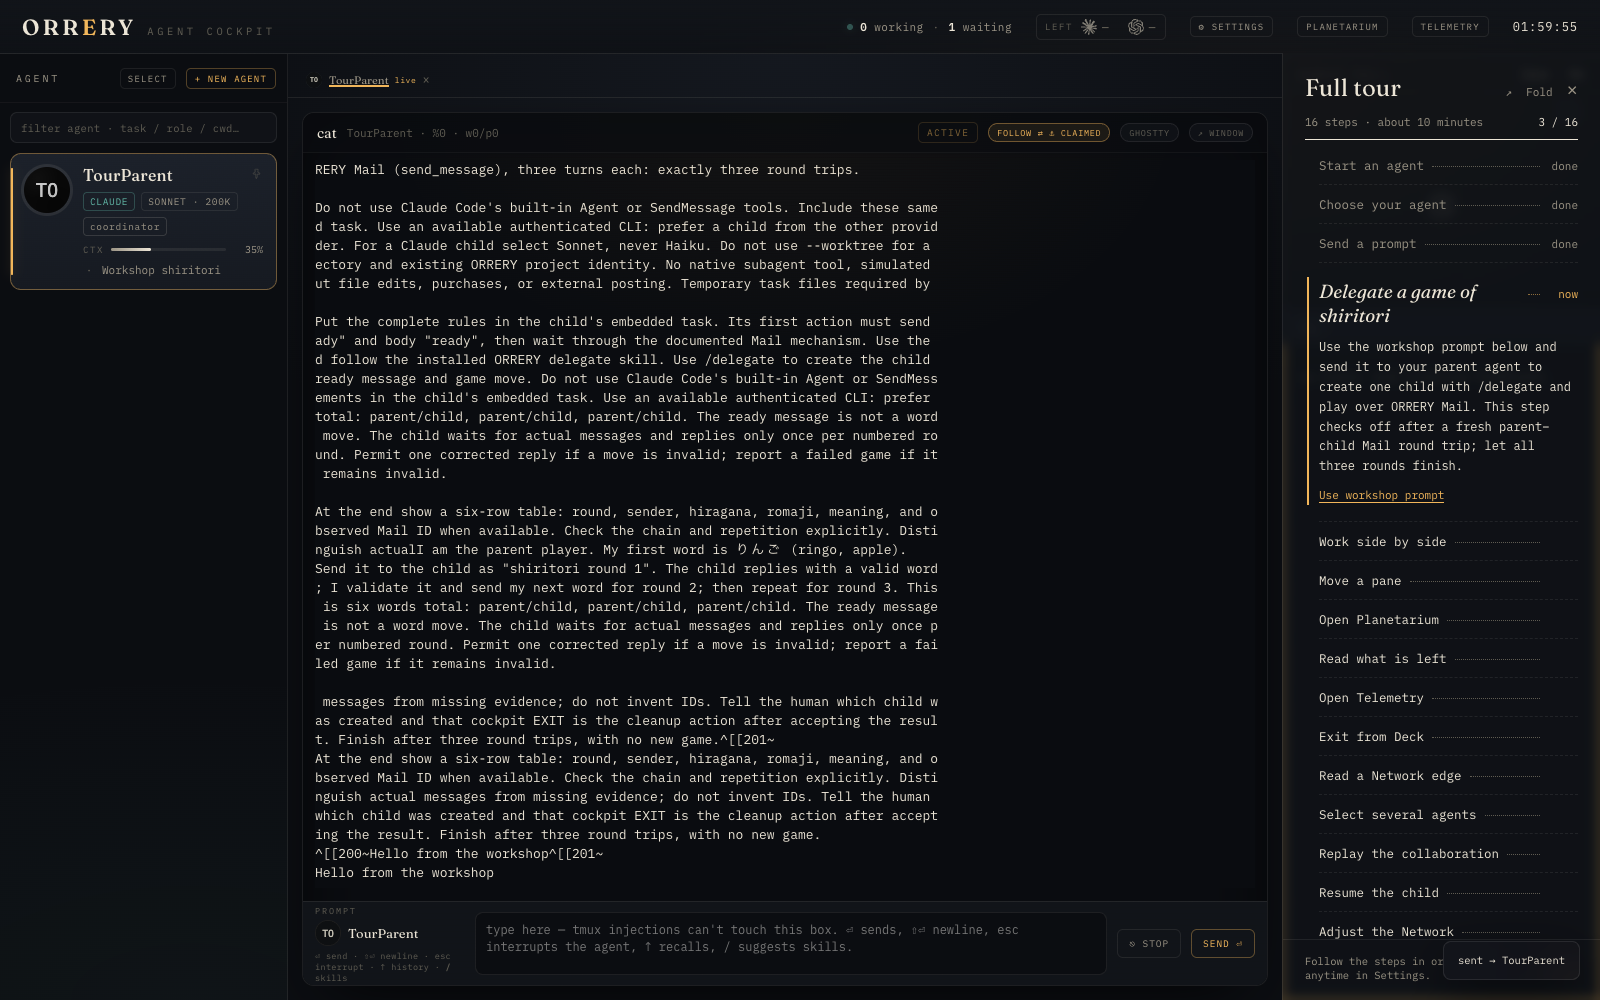
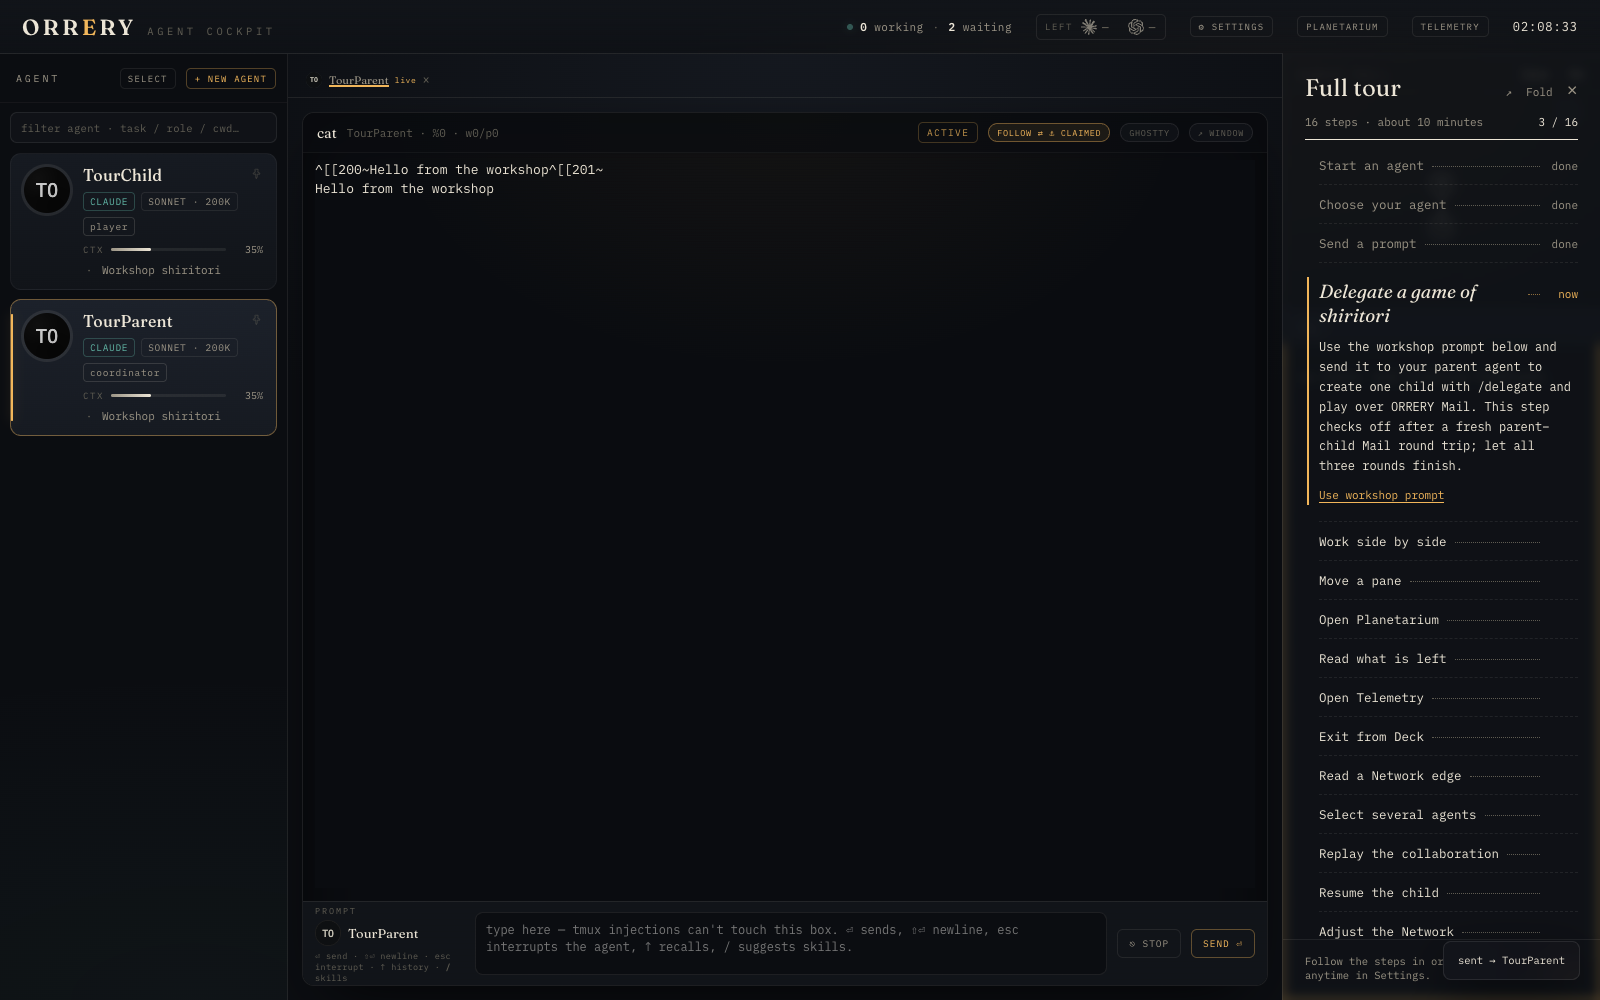
実MailのexcerptとID順を使い別窓focusを専用通知に分ける

diff --git a/bridge/cockpit_full_tour.js b/bridge/cockpit_full_tour.js
@@ -32,16 +32,18 @@ function telemetryAction(event,origin,frame){
 }
 
 // A ready message is not a game move; old rounds and unrelated peers do not count.
-function createShiritoriTracker(parent,since){
+function createShiritoriTracker(parent,since,afterId=0){
   const rounds=new Map(),seen=new Set();
   return {
     add(messages,agents){
       const children=new Set((Array.isArray(agents)?agents:[]).filter(a=>a&&a.parent===parent).map(a=>a.name));
       for(const m of Array.isArray(messages)?messages:[]){
         if(!m||m.id==null||seen.has(String(m.id)))continue;
+        const id=Number(m.id);
+        if(!Number.isSafeInteger(id)||id<=afterId)continue;
         const rawTime=m.ts_unix??m.ts??m.created_ts??m.timestamp;
         const ts=typeof rawTime==='number'?rawTime*1000:Date.parse(rawTime);
-        if(!Number.isFinite(ts)||ts<since||/^ready\s*$/i.test(String(m.body??m.body_md??'').trim()))continue;
+        if(!Number.isFinite(ts)||ts<since||/^ready\s*$/i.test(String(m.body??m.body_md??m.excerpt??'').trim()))continue;
         const sender=String(m.sender||'');
         const recipients=(Array.isArray(m.recipients)?m.recipients:[]).filter(Boolean).map(r=>typeof r==='string'?r:r.name??r.recipient);
         if(m.recipient)recipients.push(m.recipient);
@@ -51,10 +53,10 @@ function createShiritoriTracker(parent,since){
         if(!child)continue;
         seen.add(String(m.id));
         const pair=rounds.get(child)||{},prior=pair[direction];
-        if(!prior||(direction==='out'?ts<prior.ts:ts>prior.ts))pair[direction]={id:String(m.id),ts};
+        if(!prior||(direction==='out'?id<prior.id:id>prior.id))pair[direction]={id,ts};
         rounds.set(child,pair);
       }
-      return [...rounds.values()].some(pair=>pair.out&&pair.in&&pair.out.id!==pair.in.id&&pair.in.ts>=pair.out.ts);
+      return [...rounds.values()].some(pair=>pair.out&&pair.in&&pair.in.id>pair.out.id&&pair.in.ts>=pair.out.ts);
     },
   };
 }
@@ -100,7 +102,7 @@ function mount(){
   const contextKey='oc-full-tour-shiritori-v1';
   try{context=JSON.parse(root.localStorage.getItem(contextKey));}catch(_){}
   if(context&&typeof context.parent==='string'&&Number.isFinite(context.since))
-    tracker=createShiritoriTracker(context.parent,context.since);
+    tracker=createShiritoriTracker(context.parent,context.since,context.afterId||0);
   else context=null;
   function current(id){return tour.state.open&&tour.state.current?.id===id;}
   function mark(id){return current(id)&&tour.mark(id);}
@@ -123,7 +125,7 @@ function mount(){
     if(current('full-start')){context=null;tracker=null;lastTalk=null;saveContext();}
     if(current('full-shiritori')&&!context){
       const parent=lastTalk||oc.activeAgent();
-      if(parent){context={parent,since:Date.now()};tracker=createShiritoriTracker(parent,context.since);saveContext();}
+      if(parent){context={parent,since:Math.floor(Date.now()/1000)*1000,afterId:Math.max(0,...oc.mailBacklog().map(m=>Number(m.id)||0))};tracker=createShiritoriTracker(parent,context.since,context.afterId);saveContext();}
     }
     if(!current('full-return')){returnArmed=false;returnPending=null;}
     observeMail();
@@ -155,11 +157,13 @@ function mount(){
     const ids={start:'full-start',talk:'full-talk',planetarium:'full-planetarium',telemetry:'full-telemetry'};
     if(ids[detail.id])mark(ids[detail.id]);
   });
-  doc.addEventListener('oc:focus-agent',event=>{
+  function focused(event){
     const name=event.detail?.name;
     if(name&&name===choosePending&&mark('full-choose'))choosePending=null;
     if(name&&name===returnPending&&!doc.getElementById('networkOverlay').classList.contains('on'))mark('full-return');
-  });
+  }
+  doc.addEventListener('oc:focus-agent',focused);
+  doc.addEventListener('oc:tour-focus',focused);
   doc.addEventListener('oc:mail',observeMail);doc.addEventListener('oc:agents',observeMail);
   root.addEventListener('message',event=>{
     const frame=doc.getElementById('networkFrame')?.contentWindow;

diff --git a/bridge/cockpit.html b/bridge/cockpit.html
@@ -4463,9 +4463,9 @@
       }
     }
   },
[5 lines of base64/hex data omitted]
   "surface": "cockpit",
   "version": 1
 }
@@ -8461,7 +8461,7 @@ const pendingPaneFocus=new Map();
 function notifyPaneFocus(session,entry){
   if(paneWindows.get(session)!==entry)return;
   pendingPaneFocus.delete(session);
-  document.dispatchEvent(new CustomEvent('oc:focus-agent',{detail:{name:session}}));
+  document.dispatchEvent(new CustomEvent('oc:tour-focus',{detail:{name:session}}));
 }
 function acknowledgePaneFocus(msg){
   if(!paneMessageInScope(msg,paneScope)||msg.type!=='focused')return;

diff --git a/bridge/tests/test_cockpit_full_tour.py b/bridge/tests/test_cockpit_full_tour.py
@@ -294,3 +294,40 @@ def test_dom_return_completes_when_owned_pane_focus_succeeds(tour_browser, kind)
       return {overlayClosed:!document.getElementById('networkOverlay').classList.contains('on'),complete:full.state.current===null};
     })()""".replace('ENTRY', entry))
     assert result == {'overlayClosed': True, 'complete': True}
+
+
+@pytest.mark.parametrize('excerpt', ['ready', 'Ready  ', 'child started'])
+def test_real_api_excerpt_and_same_second_preceding_child_mail_do_not_count(excerpt):
+    assert run("""
+      const t=tour.createShiritoriTracker('P',1000000),agents=[{name:'C',parent:'P'}];
+      const before={id:10,ts:1001,sender:'C',recipient:'P',excerpt:EXCERPT,kind:'to',thread_id:null};
+      const out={id:11,ts:1001,sender:'P',recipient:'C',excerpt:'りんご',kind:'to',thread_id:null};
+      const reply={id:12,ts:1001,sender:'C',recipient:'P',excerpt:'ごりら',subject:'ごりら',kind:'to',thread_id:'game'};
+      console.log(JSON.stringify([t.add([before,out],agents),t.add([reply],agents)]));
+    """.replace('EXCERPT', json.dumps(excerpt))) == [False, True]
+
+
+def test_ready_excerpt_after_parent_move_and_start_watermark_do_not_count():
+    assert run("""
+      const agents=[{name:'C',parent:'P'}],out={id:11,ts:1001,sender:'P',recipient:'C',excerpt:'りんご'};
+      const ready={id:12,ts:1001,sender:'C',recipient:'P',excerpt:'ready'};
+      const t=tour.createShiritoriTracker('P',1000000);
+      const old=tour.createShiritoriTracker('P',1001000,12);
+      console.log(JSON.stringify([t.add([out,ready],agents),old.add([out,{...ready,excerpt:'ごりら'}],agents),
+        old.add([{...out,id:13},{...ready,id:14,excerpt:'ごりら'}],agents)]));
+    """) == [False, False, True]
+
+
+@pytest.mark.parametrize('kind', ['browser', 'float'])
+def test_dom_owned_focus_leaves_pending_returned_draft_with_its_agent(tour_browser, kind):
+    _, evaluate = tour_browser
+    entry = "{kind:'window',win:{closed:false,focus:()=>{}}}" if kind == 'browser' else "{kind:'float',el:document.createElement('div')}"
+    assert evaluate("""(()=>{
+      activeId='other';panes.set('other',{session:'OtherAgent'});
+      promptInput.value='';availableSessions.set('ReviewChild',{});
+      const key=paneDraftKey(paneScope,'ReviewChild');
+      localStorage.setItem(key,'ReviewChild unsent draft');takeBackPaneDraft('ReviewChild');
+      paneWindows.set('ReviewChild',ENTRY);focusPaneWindow('ReviewChild');
+      return {active:OC.activeAgent(),composer:promptInput.value,draft:localStorage.getItem(key),pending:pendingPaneDraft};
+    })()""".replace('ENTRY', entry)) == {
+        'active':'OtherAgent', 'composer':'', 'draft':'ReviewChild unsent draft', 'pending':'ReviewChild'}

diff --git a/docs/FULL_TOUR.md b/docs/FULL_TOUR.md
@@ -30,7 +30,9 @@ Only the current step advances. Failed requests, cancelled drags, a single
 selected node, a ready message, and opening an already-running agent do not
 complete the corresponding operation. Shiritori requires fresh, observed
 Mail with distinct IDs between the selected parent and the same actual child,
-with the child's response at or after the parent's move. Ready-only bodies,
+with the child's response ID after the parent's move ID. The live API uses
+whole-second timestamps and body excerpts: the starting second and the
+last observed ID form the game boundary. Ready-only bodies or excerpts,
 unrelated peers and earlier games do not count. Subjects may be absent,
 Japanese, or prefixed by a reply tool; they do not decide completion.
 
@@ -53,4 +55,5 @@ then accepts only the current step's successful action. Returning additionally
 requires the selected terminal to become focused after Telemetry closes,
 including its floating pane or own window. Native focus waits for success;
 channel fallback requires an acknowledgement from the registered window
-instance for that particular request.
+instance for that particular request. Its tour-only focus event does not
+move pending drafts into the main composer.
